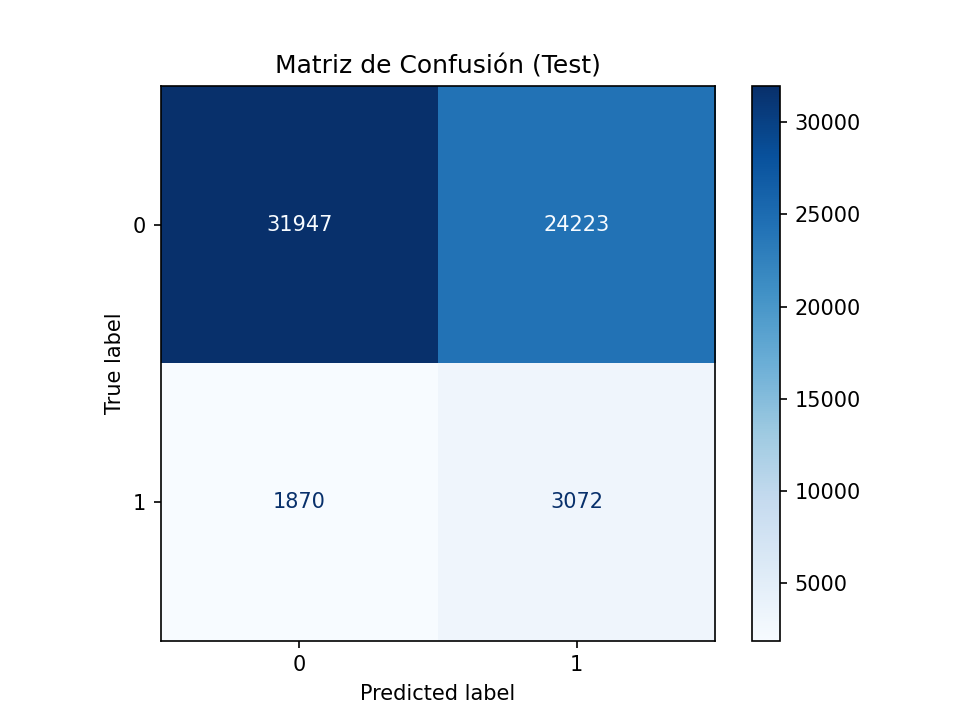
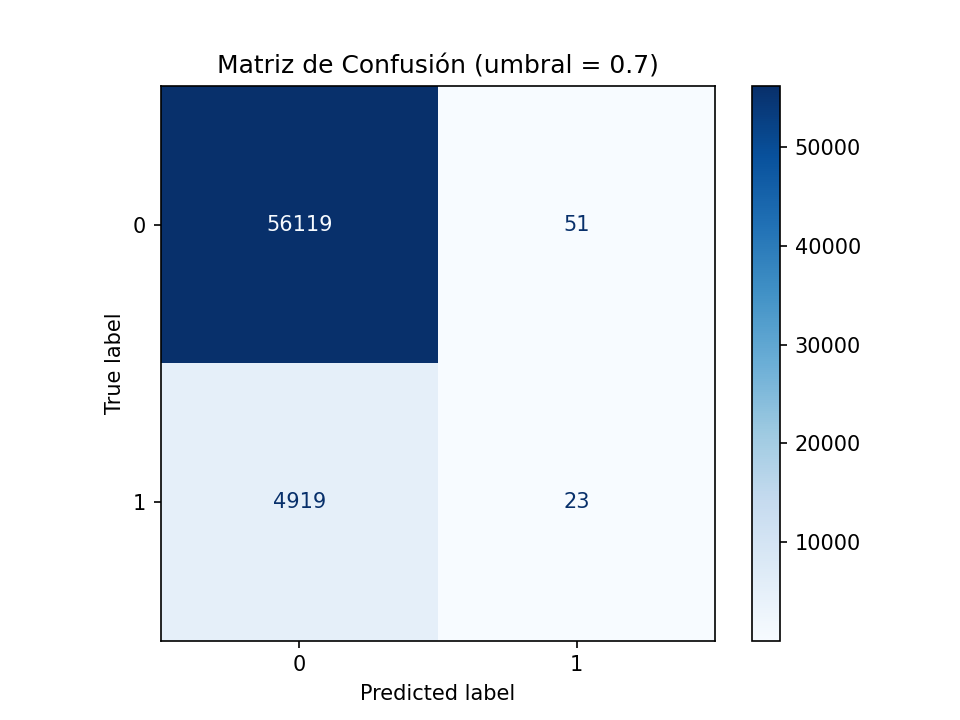
Se mejoro la matriz de confusion y se cambiaron las reglas de negocio

diff --git a/04_evaluation/evaluate_model.py b/04_evaluation/evaluate_model.py
@@ -9,8 +9,13 @@ from sklearn.metrics import (
     confusion_matrix,
     ConfusionMatrixDisplay,
     roc_auc_score,
-    RocCurveDisplay
+    roc_curve
 )
+
+#
+# Configuración
+THRESHOLD = 0.70  # Priorizar reducción de falsos positivos
+
 
 # Rutas
 SCRIPT_DIR = os.path.dirname(os.path.abspath(__file__))
@@ -20,12 +25,13 @@ OUTPUT_PATH = os.path.join(SCRIPT_DIR, "..", "reports")
 
 os.makedirs(OUTPUT_PATH, exist_ok=True)
 
+
 # Carga de datos
 X = pd.read_csv(os.path.join(DATA_PATH, "X_train_final.csv"))
 y = pd.read_csv(os.path.join(DATA_PATH, "y_train.csv")).values.ravel()
 
 
-# Split
+# SPLIT
 X_train, X_test, y_train, y_test = train_test_split(
     X, y,
     test_size=0.2,
@@ -42,31 +48,39 @@ scaler = joblib.load(os.path.join(MODEL_PATH, "scaler.pkl"))
 # Escalado
 X_test_scaled = scaler.transform(X_test)
 
+
 # Predicciones
-y_pred = model.predict(X_test_scaled)
+
 y_proba = model.predict_proba(X_test_scaled)[:, 1]
+y_pred = (y_proba >= THRESHOLD).astype(int)
 
-
-# Métricas
+# Metricas
 roc_auc = roc_auc_score(y_test, y_proba)
-print(f"ROC-AUC test: {roc_auc:.4f}")
-
-print("\nReporte de clasificación:")
+print(f"ROC-AUC test (independiente del umbral): {roc_auc:.4f}")
+print(f"\nReporte de clasificación (umbral = {THRESHOLD}):")
 print(classification_report(y_test, y_pred))
 
 
-# Matriz de confusion
+# Matriz de confusión
 cm = confusion_matrix(y_test, y_pred)
 disp = ConfusionMatrixDisplay(confusion_matrix=cm)
 
 disp.plot(cmap="Blues")
-plt.title("Matriz de Confusión (Test)")
+plt.title(f"Matriz de Confusión (umbral = {THRESHOLD})")
 plt.savefig(os.path.join(OUTPUT_PATH, "confusion_matrix.png"), dpi=150)
 plt.show()
 
+
 # Curva ROC
-roc_disp = RocCurveDisplay.from_predictions(y_test, y_proba)
-plt.title("Curva ROC (Test)")
+fpr, tpr, thresholds = roc_curve(y_test, y_proba)
+idx = (abs(thresholds - THRESHOLD)).argmin()
+
+plt.plot(fpr, tpr, label="Curva ROC")
+plt.scatter(fpr[idx], tpr[idx], color="red", label=f"Umbral {THRESHOLD}")
+plt.xlabel("False Positive Rate")
+plt.ylabel("True Positive Rate")
+plt.title("Curva ROC priorizando reducción de falsos positivos")
+plt.legend()
 plt.savefig(os.path.join(OUTPUT_PATH, "roc_curve.png"), dpi=150)
 plt.show()
 

diff --git a/05_deployment/app.py b/05_deployment/app.py
@@ -60,10 +60,10 @@ def evaluate_risk(data: ClientData):
 
     # 5 Regla de negocio
     decision = (
-        "Rechazar" if prob >= 0.70
-        else "Revisar manualmente" if prob >= 0.40
-        else "Aprobar"
-    )
+    "Rechazar" if prob >= 0.50          # Antes 0.70 - Ahora rechazamos con riesgo medio
+    else "Revisar manualmente" if prob >= 0.20 # Antes 0.40 - Ahora revisamos desde riesgo bajo
+    else "Aprobar"                      # Solo aprobamos si el riesgo es < 20%
+)
 
     return {
         "probabilidad_incumplimiento": f"{prob * 100:.2f}%", 

diff --git a/readme.md b/readme.md
@@ -71,11 +71,11 @@ Ejemplo de respuesta:
 }
 ```
 ## Lógica de Decisión de Negocio
-≥70%,Rechazar
+≥50%,Rechazar
 
-40%−69%,Revisión Manual
+20%−50%,Revisión Manual
 
-<40%,Aprobar
+<20%,Aprobar
 
 ## Consideraciones Técnicas
 Pipeline desacoplado: El proceso de entrenamiento genera archivos .pkl que la API consume de forma independiente.
